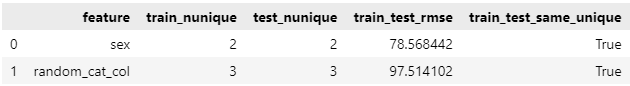
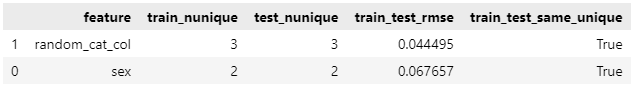
norm feature+count

diff --git a/featdist/base.py b/featdist/base.py
@@ -204,6 +204,7 @@ def categorical_ttt_dist(train=None, test=None, val=None, features=[], target='t
         
         train_group = train.groupby(feature).agg({feature:'count', target:agg_func})
         train_group.columns = [feature+'_count', target]
+        train_group[feature+'_count'] /= train.shape[0]
         for value in diff_test:
             train_group.loc[value, :] = [np.nan,np.nan]
         train_group.sort_index(inplace=True)
@@ -233,6 +234,7 @@ def categorical_ttt_dist(train=None, test=None, val=None, features=[], target='t
             diff_test_stats = set(diff_test) - set(test_counts.index)            
             test_group = test.groupby(feature).agg({feature:'count', target:agg_func})
             test_group.columns = [feature+'_count', target]
+            test_group[feature+'_count'] /= test.shape[0]
             for value in diff_test_stats:
                 test_group.loc[value, :] = [np.nan, np.nan]
             test_group.sort_index(inplace=True)
@@ -245,6 +247,7 @@ def categorical_ttt_dist(train=None, test=None, val=None, features=[], target='t
                 diff_val_stats = set(diff_test) - set(val_counts.index)            
                 val_group = val.groupby(feature).agg({feature:'count', target:agg_func})
                 val_group.columns = [feature+'_count', target]
+                val_group[feature+'_count'] /= val.shape[0]
                 for value in diff_val_stats:
                     val_group.loc[value, :] = [np.nan, np.nan]
                 val_group.sort_index(inplace=True)
@@ -257,6 +260,7 @@ def categorical_ttt_dist(train=None, test=None, val=None, features=[], target='t
             diff_val_stats = set(diff_test) - set(val_counts.index)            
             val_group = val.groupby(feature).agg({feature:'count', target:agg_func})
             val_group.columns = [feature+'_count', target]
+            val_group[feature+'_count'] /= val.shape[0]
             for value in diff_val_stats:
                 val_group.loc[value, :] = [np.nan, np.nan]
             val_group.sort_index(inplace=True)
